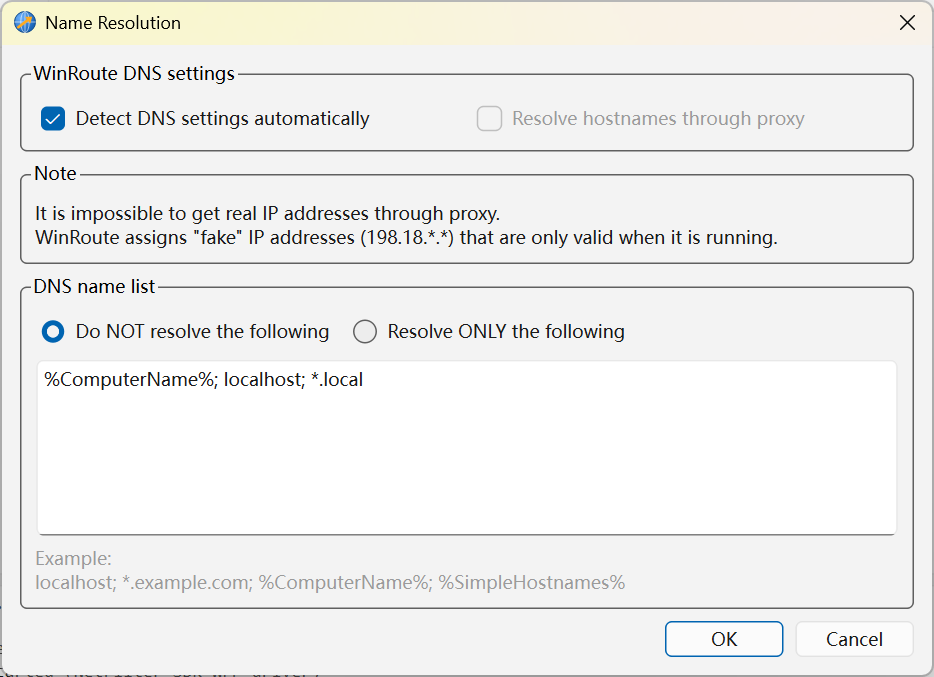
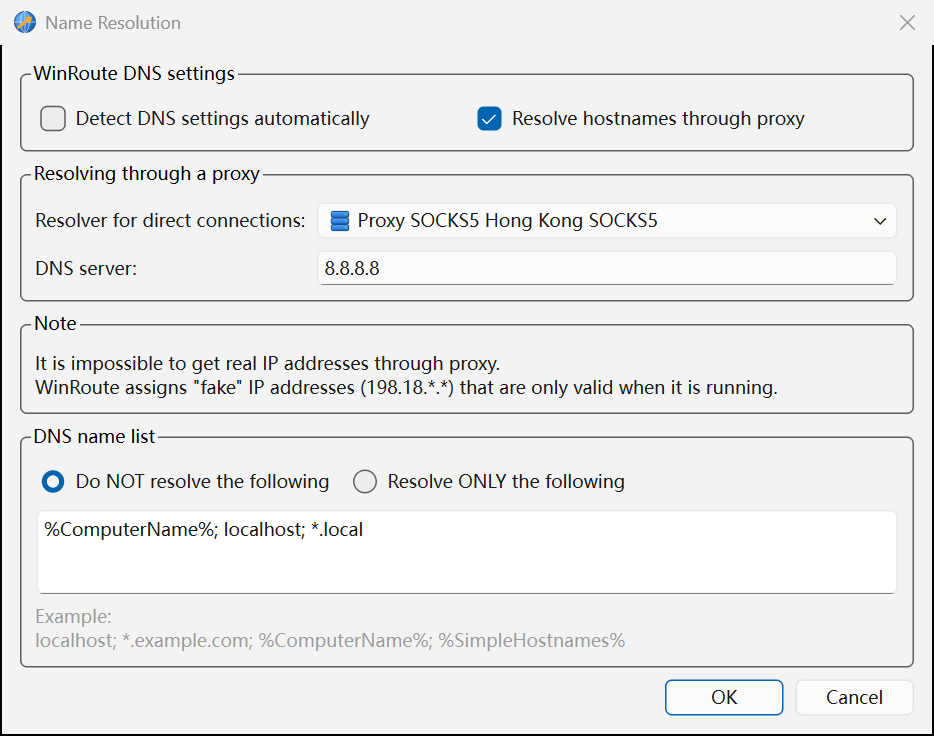
Guide: new screenshots of the proxy list, Name Resolution and rule settings
Retaken in all three languages from a sample profile: the proxy and chain
lists with the DNS column and Default DNS buttons, Name Resolution with
the resolver for direct connections and the DNS server, and the rule's
Advanced Rule Settings with the Name Resolution group.

Changed region(s): [[0.0, 0.0, 1.0, 1.0], [0.031, 0.7134, 0.4036, 0.7445]]

diff --git a/docs/en/rules.md b/docs/en/rules.md
@@ -70,7 +70,7 @@ Single ports or port ranges:
 
 Click **Advanced...** in the rule window to send connections matching the rule out through a specific network adapter:
 
-![Rule Network Interface](/images/en/rule-interface.png){width=443}
+![Advanced Rule Settings](/images/en/rule-interface.png){width=443}
 
 - For a direct connection, the adapter connects to the target host;
 - for a proxied connection, the adapter connects to the first proxy server.

diff --git a/docs/rules.md b/docs/rules.md
@@ -70,7 +70,7 @@ IP 地址、域名、通配符或 IP 地址范围：
 
 在规则窗口中单击 **高级...**，可使匹配该规则的连接从指定的网络适配器发出：
 
-![规则网卡](/images/rule-interface.png){width=443}
+![规则高级设置](/images/rule-interface.png){width=443}
 
 - 直接连接时，由该网卡连接目标主机；
 - 经由代理时，由该网卡连接第一个代理服务器。
